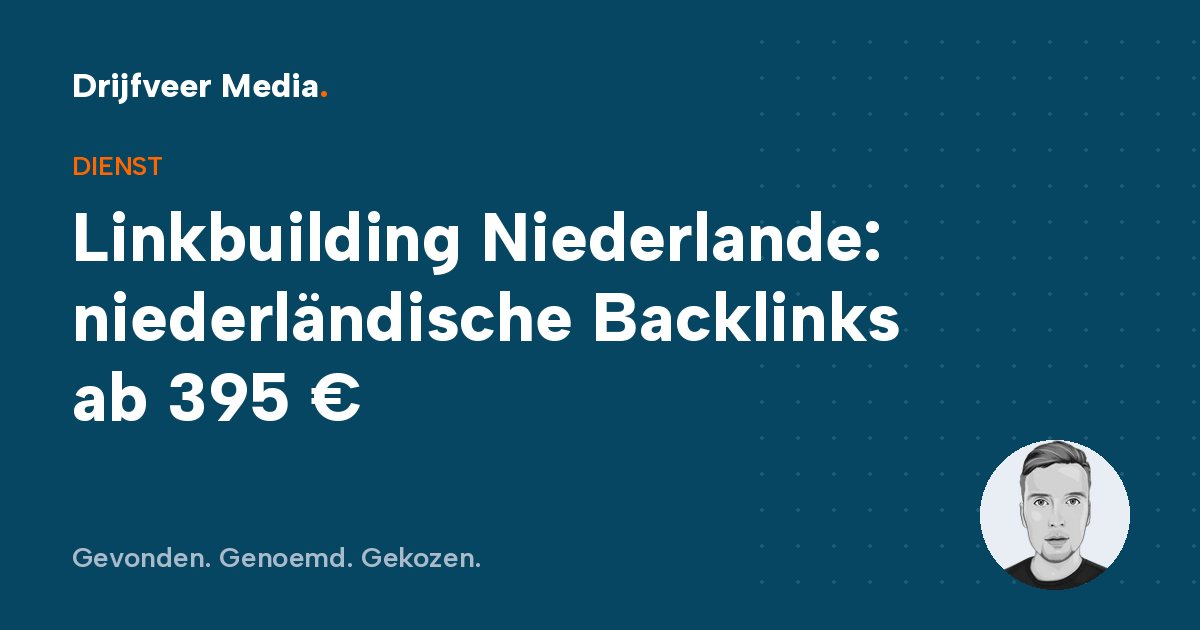
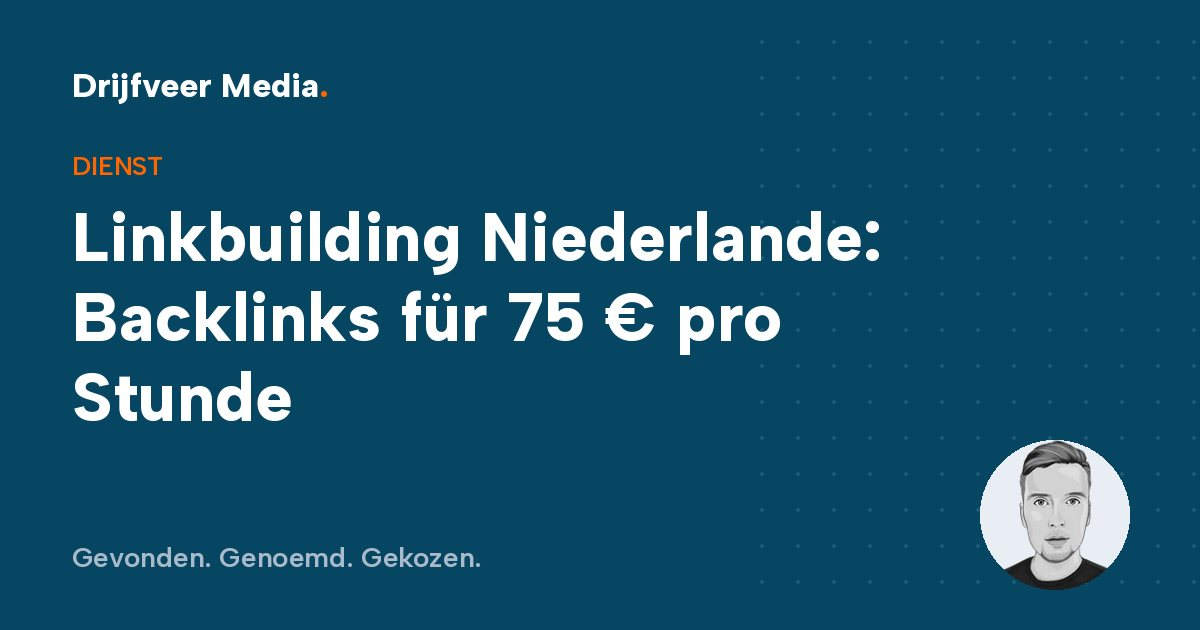
Linkbuilding: € 75 per uur (3 tot 5 links per uur), uitleg waarom per uur, overlap pillar/uitbesteden opgeruimd, 'linkbuilding bureau' naar uitbesteden
Claude-Session: https://claude.ai/code/session_01NLifyUjZcoN3wTfqB9eGpX

Changed region(s): [[0.0617, 0.4524, 0.7708, 0.573], [0.0617, 0.573, 0.3083, 0.6937]]

diff --git a/src/data/diensten.ts b/src/data/diensten.ts
@@ -13,6 +13,7 @@ export interface Dienst {
   prijs: string; // zoals op de site getoond
   prijsWaarde?: number; // voor structured data, in euro excl. btw
   prijsEenheid?: 'maand' | 'uur' | 'eenmalig' | 'pagina';
+  maandelijks?: boolean; // uurtarief, maar met vaste uren per maand: opzegbaar en met garantie (linkbuilding)
 }
 
 export const diensten: Dienst[] = [
@@ -23,8 +24,8 @@ export const diensten: Dienst[] = [
   { naam: 'SEO uitbesteden', url: '/zoekmachine-optimalisatie/seo-uitbesteden/', pijler: 'Gevonden', ouder: '/zoekmachine-optimalisatie/', kort: 'SEO helemaal uit handen', prijs: 'vanaf € 495 per maand', prijsWaarde: 495, prijsEenheid: 'maand' },
   { naam: 'Lokale SEO', url: '/lokale-seo/', pijler: 'Gevonden', pillar: true, kort: 'Gevonden in je regio en op Google Maps', prijs: 'vanaf € 295 per maand', prijsWaarde: 295, prijsEenheid: 'maand' },
   { naam: 'Google Bedrijfsprofiel', url: '/lokale-seo/google-bedrijfsprofiel/', pijler: 'Gevonden', ouder: '/lokale-seo/', kort: 'Google, Bing en Apple Maps goed ingericht', prijs: 'vanaf € 249', prijsWaarde: 249, prijsEenheid: 'eenmalig' },
-  { naam: 'Linkbuilding', url: '/linkbuilding/', pijler: 'Gevonden', pillar: true, kort: 'Sterke links, eerst getest in ons proeflab', prijs: 'vanaf € 395 per maand', prijsWaarde: 395, prijsEenheid: 'maand' },
-  { naam: 'Linkbuilding uitbesteden', url: '/linkbuilding/linkbuilding-uitbesteden/', pijler: 'Gevonden', ouder: '/linkbuilding/', kort: 'Elke maand nieuwe links, met verslag', prijs: 'vanaf € 395 per maand', prijsWaarde: 395, prijsEenheid: 'maand' },
+  { naam: 'Linkbuilding', url: '/linkbuilding/', pijler: 'Gevonden', pillar: true, kort: 'Sterke links, eerst getest in ons proeflab', prijs: '€ 75 per uur', prijsWaarde: 75, prijsEenheid: 'uur', maandelijks: true },
+  { naam: 'Linkbuilding uitbesteden', url: '/linkbuilding/linkbuilding-uitbesteden/', pijler: 'Gevonden', ouder: '/linkbuilding/', kort: 'Elke maand nieuwe links, met verslag', prijs: '€ 75 per uur', prijsWaarde: 75, prijsEenheid: 'uur', maandelijks: true },
   { naam: 'Google disavow tool', url: '/linkbuilding/google-disavow-tool/', pijler: 'Gevonden', ouder: '/linkbuilding/', kort: 'Slechte links onschadelijk maken', prijs: 'consult € 85 per uur', prijsWaarde: 85, prijsEenheid: 'uur' },
   { naam: 'Online adverteren', url: '/online-adverteren/', pijler: 'Gevonden', pillar: true, kort: 'Adverteren waar je klant zoekt', prijs: 'vanaf € 249 per maand', prijsWaarde: 249, prijsEenheid: 'maand' },
   { naam: 'Google Ads', url: '/online-adverteren/google-ads-bureau/', pijler: 'Gevonden', ouder: '/online-adverteren/', kort: 'Campagnes die aanvragen opleveren', prijs: 'vanaf € 249 per maand', prijsWaarde: 249, prijsEenheid: 'maand' },

diff --git a/src/data/actie.ts b/src/data/actie.ts
@@ -20,7 +20,7 @@ const regels: [RegExp, Stap][] = [
     knop: 'Doe de gratis AI-test', kort: 'Gratis AI-test', vraag: 'Noemt ChatGPT jou al?', href: '/generative-engine-optimization/#ai-test',
     zin: 'In vijf minuten weet je of ChatGPT en Gemini jouw bedrijf noemen als iemand naar jouw vak vraagt.',
     dienst: { naam: 'Genoemd worden door AI', prijs: 'vanaf € 495 per maand', url: '/generative-engine-optimization/' } }],
-  [/^\/linkbuilding|backlink|dofollow|linkbuilding/, { ...scan, vraag: 'Hoe sterk zijn jouw links, naast die van je concurrent?', dienst: { naam: 'Linkbuilding', prijs: 'vanaf € 395 per maand', url: '/linkbuilding/' } }],
+  [/^\/linkbuilding|backlink|dofollow|linkbuilding/, { ...scan, vraag: 'Hoe sterk zijn jouw links, naast die van je concurrent?', dienst: { naam: 'Linkbuilding', prijs: '€ 75 per uur', url: '/linkbuilding/' } }],
   [/^\/(tekstschrijver)|copywriting|teksten|contentmarketing|content-plan|blog/, { ...scan, vraag: 'Mag Thorgall een van je pagina\'s lezen?', dienst: { naam: 'Tekstschrijver', prijs: 'vanaf € 75 per pagina', url: '/tekstschrijver/' } }],
   [/^\/leadgeneratie|conversie|landingspagina|leads|nieuwsbrief|mail|funnel|heatmap/, { ...scan, dienst: { naam: 'Leadgeneratie', prijs: 'vanaf € 495 per maand', url: '/leadgeneratie/' } }],
   [/^\/social-media|instagram|linkedin|social|posten|reels|viraal/, { ...scan, dienst: { naam: 'Social media beheer', prijs: 'vanaf € 395 per maand', url: '/social-media-beheer/' } }],

diff --git a/scripts/llms.py b/scripts/llms.py
@@ -42,7 +42,7 @@ tekst = f"""# Drijfveer Media
 {chr(10).join(diensten)}
 
 ## Bewijs
-- [Resultaten](https://www.drijfveermedia.nl/cases/): Willemfikstt.nl kreeg 87% meer bezoekers uit Google en 60% meer aanvragen via de site; Conflictbemiddeling.nl 47% meer bezoekers uit Google na een nieuwe site, SEO en Google Ads; Dakraamconcurrent.nl 32% meer bezoekers uit Google na een nieuwe site en linkbuilding.
+- [Resultaten](https://www.drijfveermedia.nl/cases/): Willemfikstt.nl kreeg 87% meer bezoekers uit Google en 60% meer aanvragen via de site; Conflictbemiddeling.nl 47% meer bezoekers uit Google na een nieuwe site, SEO, linkbuilding en Google Ads; Dakraamconcurrent.nl 32% meer bezoekers uit Google na een nieuwe site en linkbuilding.
 {chr(10).join(L(x) for x in cases)}
 - [Logboek](https://www.drijfveermedia.nl/logboek/): elke maand de cijfers van onze eigen site.
 

diff --git a/scripts/briefing/BESLISPUNTEN-ROBERT.md b/scripts/briefing/BESLISPUNTEN-ROBERT.md
@@ -31,3 +31,15 @@
 22. Oorspronkelijke datums van overgezette blogs en cases.
 23. Vóór de livegang: verwerkersovereenkomsten met Vimexx en Microsoft vastleggen, een verwerkingsregister, en één A4 over AI-gebruik voor het team (AI Act art. 4). Daar zijn geen wijzigingen op de site voor nodig.
 24. Bedrijfsgrootte bevestigen (minder dan 10 mensen en onder € 2 miljoen omzet): dan geldt de toegankelijkheidswet (EAA) niet. Een toegankelijkheidsverklaring kan erbij zodra je een contactpersoon en reactietermijn kiest; doe vooraf één hertest met een schermlezer.
+
+### Linkbuilding (kerndienst, 19-10-2026)
+Bron: concurrentieanalyse linkbuilding. De inhoud is de beste van Nederland, het bewijs is het zwakst. Deze antwoorden maken het verschil.
+25. **Prijs (opgelost 19-10):** € 75 per uur, meestal 3 tot 5 links per uur, uren per maand, opzegbaar, met stijggarantie. Staat nu overal op de site. Nog open: komen betaalde plaatsingen (publisherkosten) bovenop de uren, en tot welk bedrag? En is er een minimum aantal uren per maand?
+26. **Proeflab en klanten:** klopt "onze eigen sites gebruiken we om te testen, nooit als linkbron voor klanten"? De uitbestedenpagina noemt "links op het eigen netwerk van het bureau" een waarschuwingssignaal; dat moet kloppen.
+27. **Betaalde plaatsingen:** kopen we ooit plaatsingen voor klanten (met het label sponsored)? Eén zin als standpunt.
+28. **Echt bewijs:** vijf tot tien plaatsingen die we mogen tonen (klant- of proeflabsites), een geanonimiseerd echt maandoverzicht, en toestemming van Dakraam Concurrent en Conflictbemiddeling voor linkdata. Johan kan het verloop van hun verwijzende domeinen uit SE Ranking halen; dat lost ook de ontbrekende meetperiode op.
+29. **Johan:** achtergrond, sinds wanneer linkbuilder, zijn drempels voor een bron (verkeer, uitgaande links, uitsluitingen), LinkedIn, en een paar zinnen in zijn eigen woorden. Dan krijgt hij /over-ons/johan-zwartenberg/ ("linkbuilding specialist") en wordt hij inhoudelijk controleur van de linkbuildingpagina's.
+30. **Penalty:** welk jaar, welke techniek, hoe lang het herstel duurde, en is er een screenshot (domein onleesbaar)?
+31. **Eigen linkbuilding openbaar:** mogen de maandelijkse posities en nieuwe links van onze eigen linkbuildingpagina's in het logboek? Geen concurrent doet dat.
+32. **Linkbuildingscan:** wat doet Johan bij de concurrentenvergelijking en binnen hoeveel werkdagen? Wie belt erover (Thorgall of Johan)?
+33. **Whitelabel voor bureaus:** ja of nee, en met welke capaciteit? Tot dan bouwen we het niet.

diff --git a/scripts/briefing/SCHRIJFWIJZER.md b/scripts/briefing/SCHRIJFWIJZER.md
@@ -50,6 +50,7 @@ Verzin nooit feiten over het bedrijf, klanten, resultaten, reviews of cijfers. E
 - Werkdagen 8.00 tot 17.00 uur. Binnen 15 minuten teruggebeld, uit interesse, niet om te verkopen.
 - Werkwijze in vijf stappen: (1) binnen 15 minuten terugbellen, (2) vragen, vragen, vragen tot we weten wat je echt wilt, (3) mogelijkheden bestuderen en voorleggen, telefonisch of persoonlijk (bij ons of op locatie), (4) lage investering en concrete targets waar we op afgerekend kunnen worden, (5) beginnen waar de grootste kans op snel verschil zit, daarna perfectioneren (Pareto).
 - Garantie: we spreken samen een doel af. Halen we dat niet en ligt het aan ons, dan werken we een maand gratis door. Voorwaarde: de klant doet wat nodig is en gevraagd wordt om het doel te halen. Bij SEO en linkbuilding: stijggarantie. Maandelijks opzegbaar, tenzij anders afgesproken.
+- Linkbuilding (bevestigd door Robert, 19-10-2026): € 75 per uur, exclusief btw, geen vast maandbedrag. Een uur levert meestal 3 tot 5 links op. De klant spreekt uren per maand af, zegt per maand op, en de stijggarantie geldt. We werken per uur en niet per link: kwantiteit is bij linkbuilding niet moeilijk, maar gaat vaak ten koste van kwaliteit. Eén goede link is meer waard dan honderd slechte, en slechte links kunnen schaden.
 - Proeflab: al 15 jaar meer dan 100 eigen leadsites in verschillende beroepen. Daar testen we ideeën en technieken voordat we ze bij klanten inzetten. Eerlijk verhaal: vroeger namen we met eigen sites soms te veel risico (greyhat), een eigen site kreeg ooit een penalty van Google. Juist daarom testen we op eigen sites. Bij klanten blijven we ruim binnen de regels van zoekmachines en AI.
 - Klanten blijven jaren, er is amper verloop. Klanten uit heel Nederland en ook het buitenland. Ideale klant: mkb, rond € 500 per maand.
 - Klantnamen die genoemd mogen worden: Kärcher, bol.com, Nyenrode, Conflictbemiddeling Nederland, Glaspunt (online marketing, tekstschrijven, leadgeneratie, linkbuilding). Zeg niet per naam wat we precies voor wie deden, tenzij het in een case staat.

diff --git a/scripts/briefing/STRUCTUUR.md b/scripts/briefing/STRUCTUUR.md
@@ -57,11 +57,11 @@ Ordening volgens Gevonden, Genoemd en Gekozen. Elke pillar heeft een eigen pagin
 | Lokale SEO (pillar) | /lokale-seo/ | Gevonden worden in je eigen regio en op Google Maps, inclusief reviews | € 295 p/m |
 | Google Bedrijfsprofiel, Bing Places en Apple | /lokale-seo/google-bedrijfsprofiel/ | Alle drie de kaarten goed ingericht | € 249 |
 | Reviews en reputatie | /lokale-seo/reviews/ | Reviewlink, QR-code, reageren op reviews | Onderdeel van lokale SEO |
-| Linkbuilding (pillar) | /linkbuilding/ | Hoe we links bouwen, getest in ons proeflab, stijggarantie | € 395 p/m |
-| Linkbuilding uitbesteden | /linkbuilding/linkbuilding-uitbesteden/ | Maandelijkse links zonder omkijken | € 395 p/m |
+| Linkbuilding (pillar) | /linkbuilding/ | Hoe we links bouwen, getest in ons proeflab, stijggarantie | € 75 p/u |
+| Linkbuilding uitbesteden | /linkbuilding/linkbuilding-uitbesteden/ | Maandelijkse links zonder omkijken | € 75 p/u |
 | Google disavow tool | /linkbuilding/google-disavow-tool/ | Slechte links onschadelijk maken | Consult € 85 p/u |
-| Link building Netherlands (Engels) | /linkbuilding/link-building-netherlands/ | Voor buitenlandse bedrijven die in Nederland willen scoren | € 395 p/m |
-| Linkbuilding Niederlande (Duits) | /linkbuilding/linkbuilding-niederlande/ | Idem, voor Duitse bedrijven | € 395 p/m |
+| Link building Netherlands (Engels) | /linkbuilding/link-building-netherlands/ | Voor buitenlandse bedrijven die in Nederland willen scoren | € 75 p/u |
+| Linkbuilding Niederlande (Duits) | /linkbuilding/linkbuilding-niederlande/ | Idem, voor Duitse bedrijven | € 75 p/u |
 
 ### Genoemd
 
